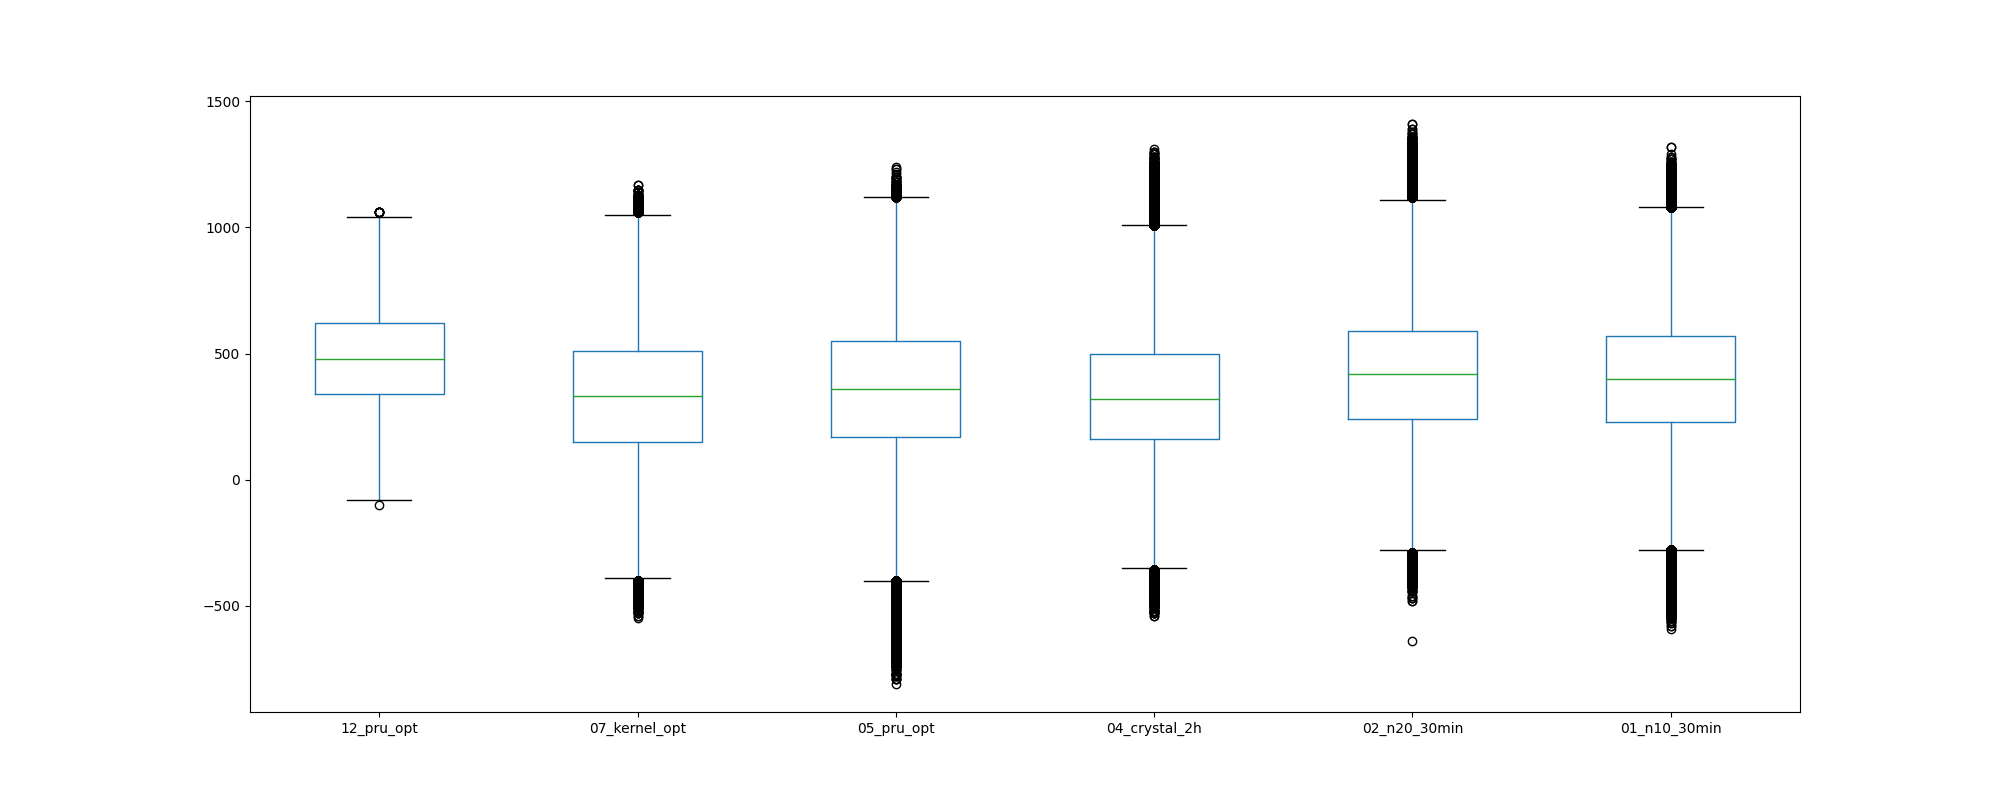
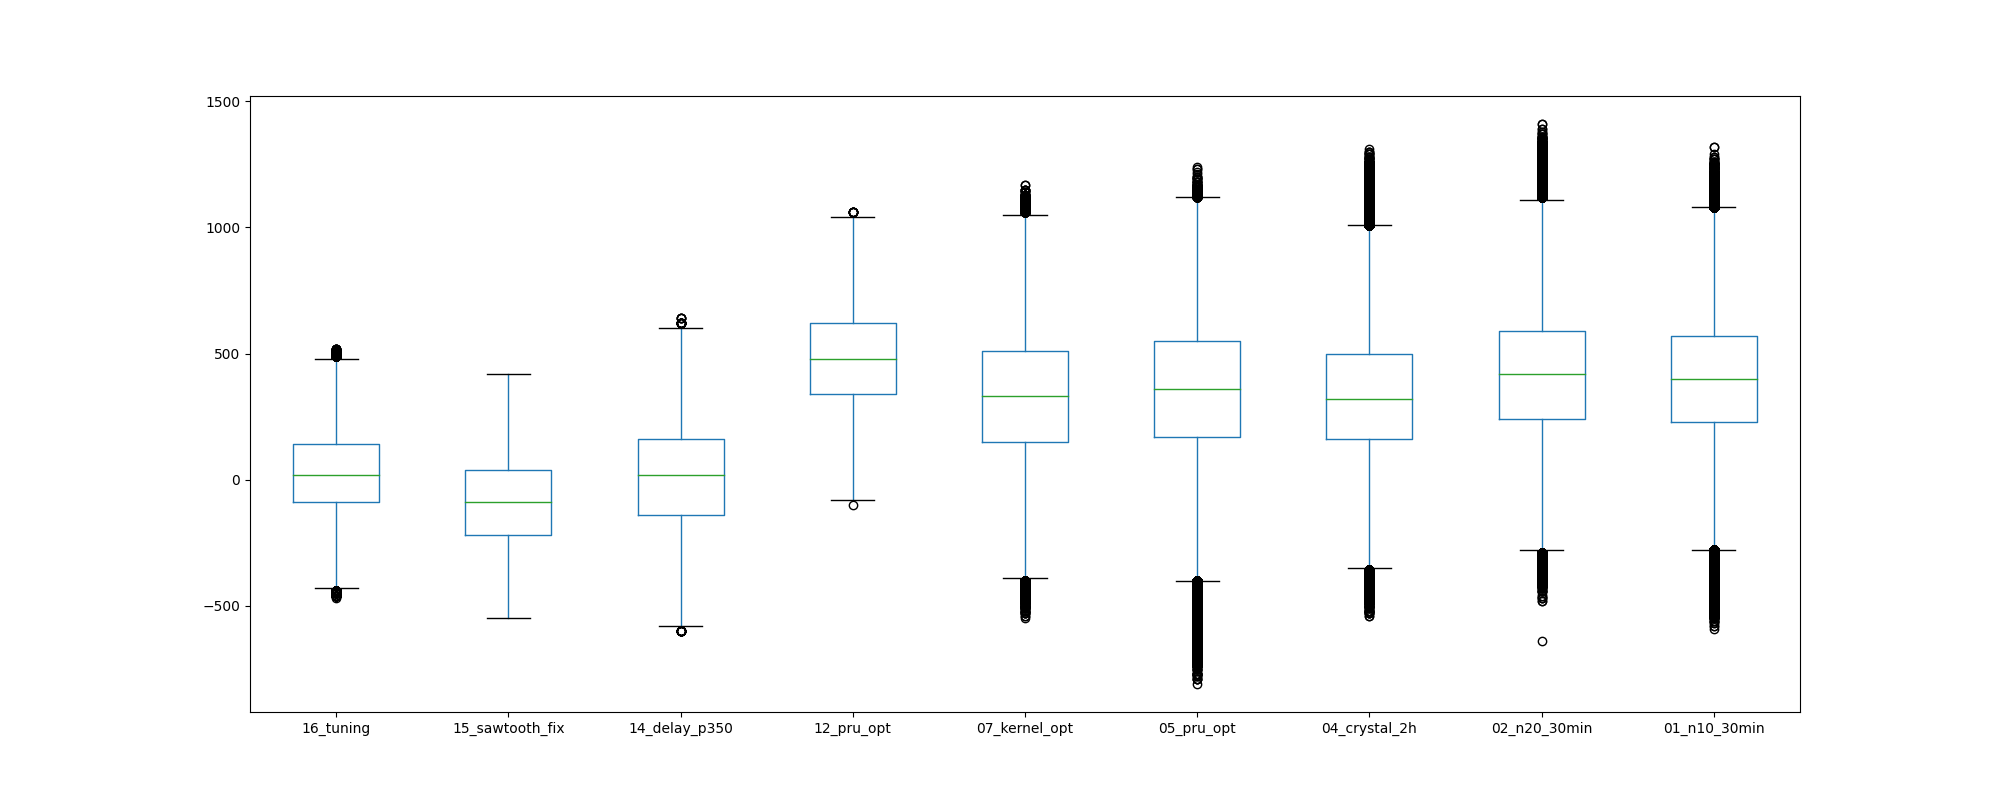
sync_analysis

diff --git a/timesync/analyze_logic_traces.py b/timesync/analyze_logic_traces.py
@@ -7,15 +7,19 @@ import matplotlib.pyplot as plt
 # 7.642110550000000, 1, 0
 
 files = [
+    "sync_2BB_16_tuning.csv",
+    "sync_2BB_15_sawtooth_fix.csv",
+    "sync_2BB_14_delay_p350.csv",
+    #"sync_2BB_13_trigger_opt.csv",
     "sync_2BB_12_pru_opt.csv",
-    #"sync_2BB_11_pru_opt.csv",
-    #"sync_2BB_10_pru_opt.csv",
-    #"sync_2BB_08_pru_opt.csv",
+    ##"sync_2BB_11_pru_opt.csv",
+    ##"sync_2BB_10_pru_opt.csv",
+    ##"sync_2BB_08_pru_opt.csv",
     "sync_2BB_07_kernel_opt.csv",
-    #"sync_2BB_06_kernel_opt.csv",
+    ##"sync_2BB_06_kernel_opt.csv",
     "sync_2BB_05_pru_opt.csv",
     "sync_2BB_04_crystal_2h.csv",
-    #"sync_2BB_03_n20_4h.csv",
+    ##"sync_2BB_03_n20_4h.csv",
     "sync_2BB_02_n20_30min.csv",
     "sync_2BB_01_n10_30min.csv",
 ]
@@ -37,7 +41,8 @@ def series_statistics(data: pd.Series, name: str):
 
 def plot_graph(x:list, y: list, filename: str, size:tuple = (18, 8)):
     plt.figure(figsize=size)
-    plt.plot(x, y)
+    len_min = min(len(x), len(y))
+    plt.plot(x[:len_min], y[:len_min])
     plt.savefig(filename)
     plt.close()
 
@@ -49,6 +54,7 @@ for file in files:
     # - first calc the derivative (current value - previous value)
     # - second filter for "-1" and keep only these
     # - now subtract the timestamps
+    # data = data[data["Time[s]"] > 1]
     file = file.split(".")[0]
     dtime = data["Time[s]"].iloc[1:]
     ch0 = data.loc[:, "Channel 0"]
